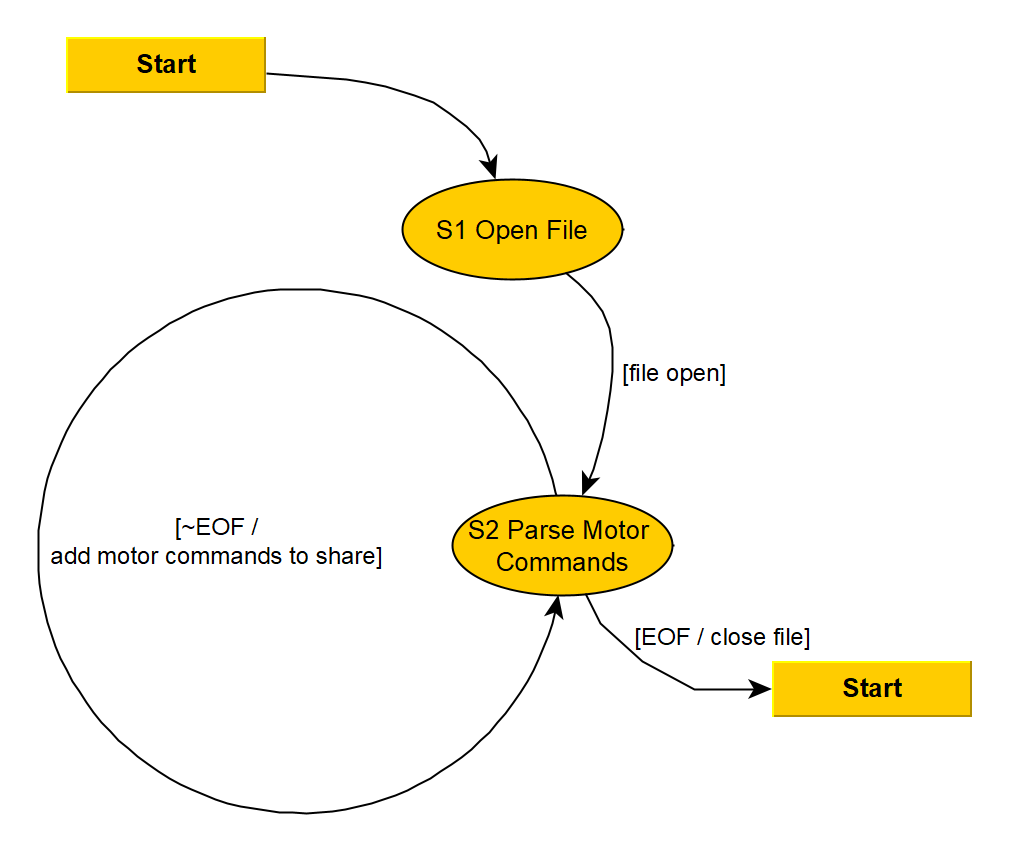
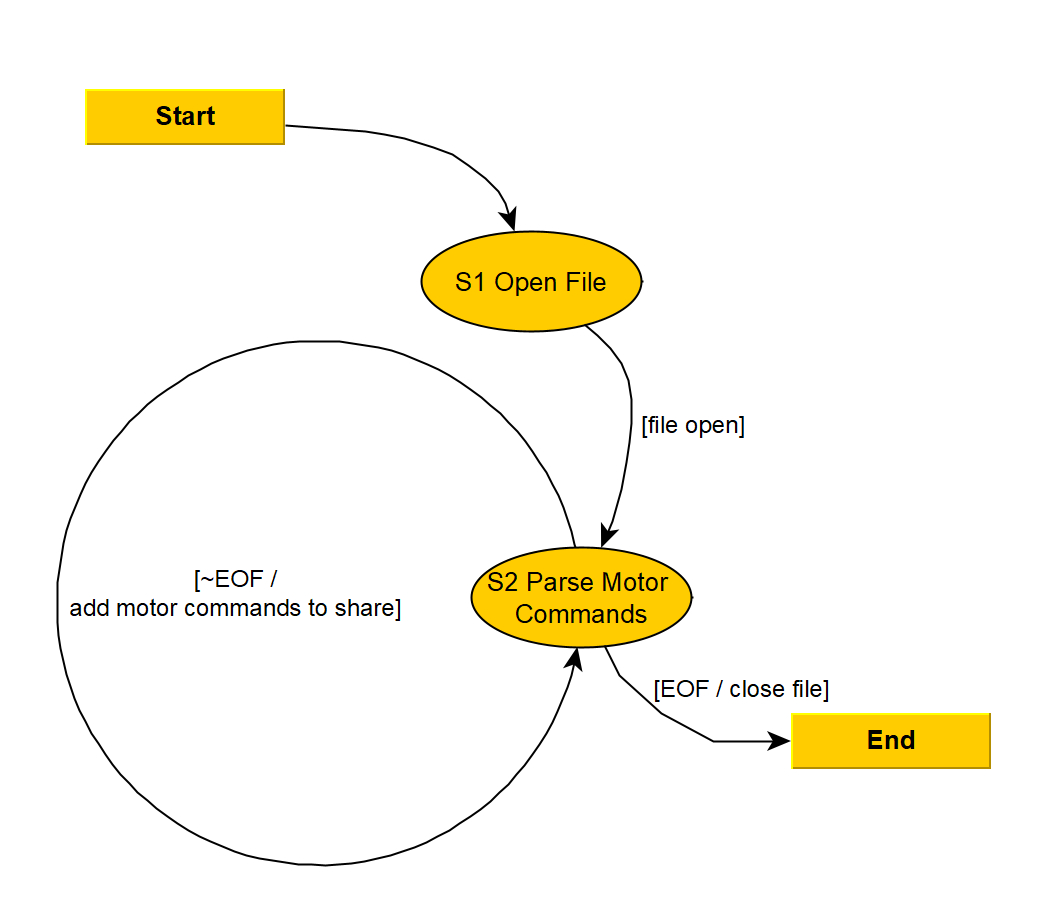
update README with state transition diagram

diff --git a/README.md b/README.md
@@ -3,6 +3,7 @@
 The impetus behind this project was to develop a small prototype for a strawberry moving robot for use in vertical farming applications. Vertical farms typically have plants growing out of a cylinder to save on space. However, the spacing between plants in the cylinder is important to ensure that each plant has the room it needs to grow. Moving these plants is a task that can easily be automated with the use of a pick-and-place machine designed to operate on the cylinder. <br /> <br />
 This project serves as a proof-of-concept for such a system. It uses a foam roller with push-pins as a representative model of the vertical farm and strawberries. The roller is rotated by a stepper motor and the pins are manipulated using a robotic arm with a gripper mounted to it. The arm uses one stepper motor for its base, a modified servo for its elbow, and an un-modified servo for its wrist and claw.
 ## Hardware Design
+![alt text](https://github.com/ctgillespie/StrawberryPicker/blob/main/Photos/Prototype.jpg?raw=true "Prototype System")
 ## Motor Driver
 In order to get the motors to run properly, there are several set-up steps that must be followed to configure the TMC4210 properly. Firstly, the enable pin *en_sd* must be set to 1 to enable interfacing with the motor driver. Next, the *V_MIN* and *V_MAX* parameters are set to 2 and 8 respectively. These parameters are used to tell the motor below which speed it can stop and to put an upper bound on the velocity of the motor respectively. Next, *PULSE_DIV* and *RAMP_DIV* are used to set the clock pre-dividers. An image of the clock signal on the oscilloscope is shown below. <br />
 ![alt text](https://github.com/ctgillespie/StrawberryPicker/blob/main/Photos/ClockSignal.png?raw=true "Clock Signal")
@@ -21,3 +22,5 @@ The xml file is then read into the Jupyter file _GenerateMotorCommands_ which, a
 At the highest level, the code onboard the Nucleo board runs cooperatively. After the initial set-up of writing the parameters to the motor board (as described in the Motor Driver section above), the multi-tasking part of the operation begins. There are two main tasks that run simultaneously. One reads the motor commands and the other writes to the motors. Since the Nucleo board has limited RAM, the motor commands are loaded in as a CSV which can be saved on the device memory. The read commands task reads a chunk of the file at a time and shares it with the write commands task. This way, the system will not get a memory error for larger drawings. The task diagram for this operation is shown below.
 ![alt text](https://github.com/ctgillespie/StrawberryPicker/blob/main/Photos/TaskDiagram.PNG?raw=true "Task Diagram")
 ## Demonstration
+The read task starts by opening the csv file with all the motor commands. It then will enter the parse motor commands state where it will parse one command at a time and add it to various shares for the write task to make use of until it reaches the end of the file. This functionality is shown in the state transition diagram below.
+![alt text](https://github.com/ctgillespie/StrawberryPicker/blob/main/Photos/ReadCommandsSTD.PNG?raw=true "Read Commands State Transition Diagram")
